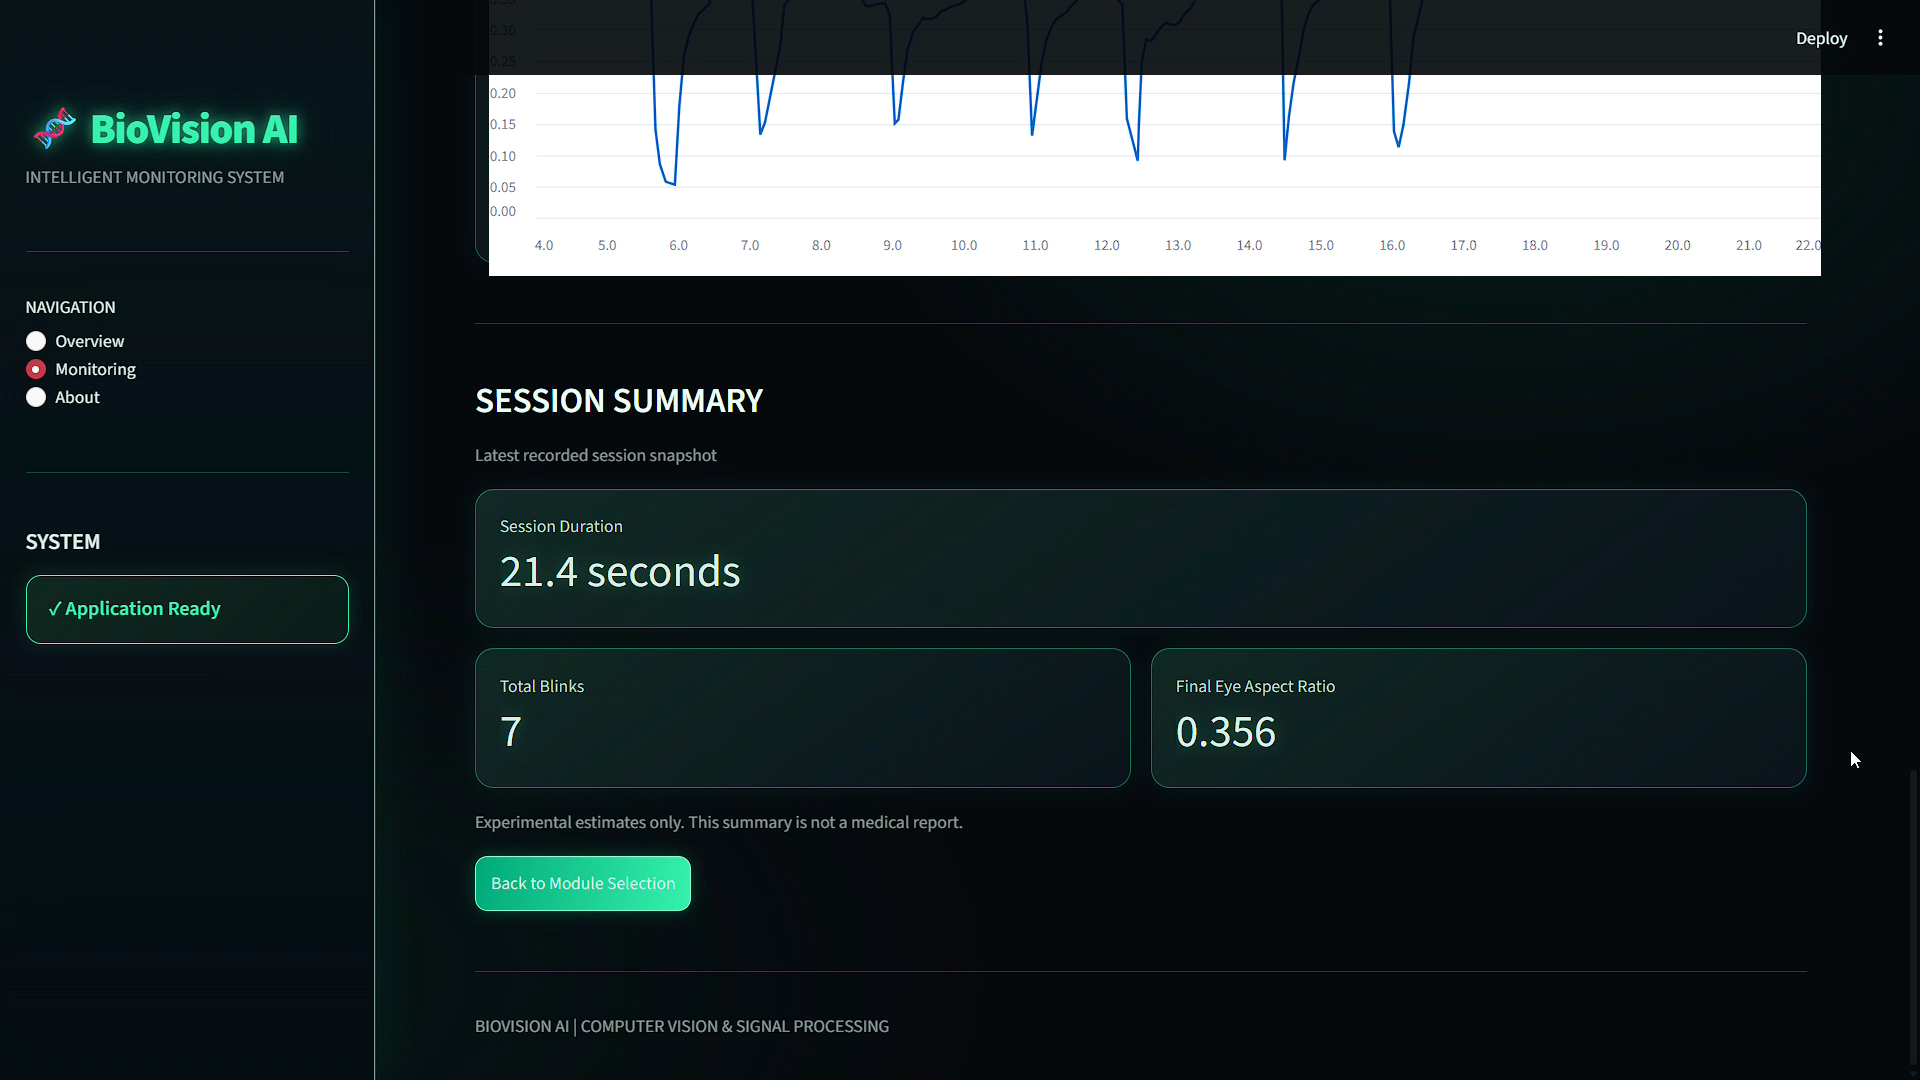
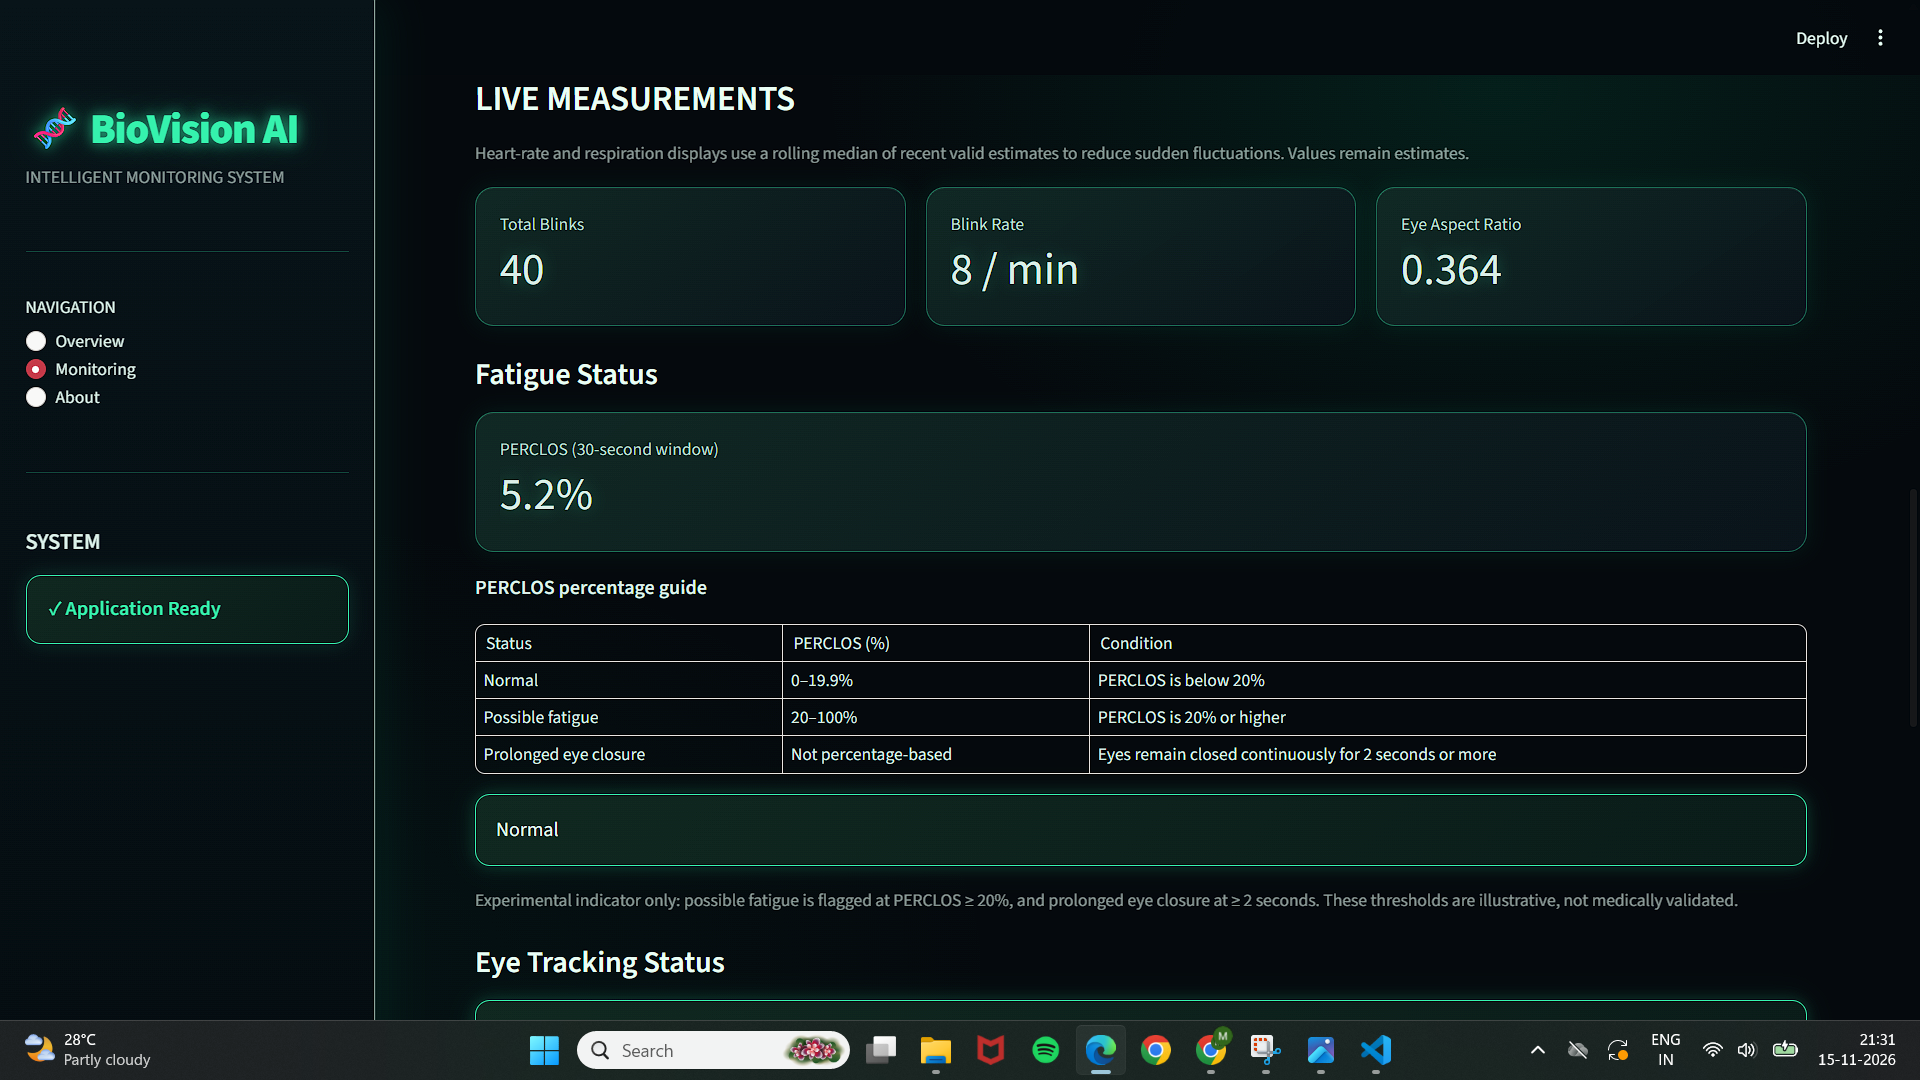
Fix OpenCV dependency for cloud deployment

diff --git a/biovision_live.py b/biovision_live.py
@@ -546,6 +546,10 @@ class BioVisionProcessor(VideoProcessorBase):
         self.closed_start = 0
         self.ear = 0
         self.ear_history = deque(maxlen=300)
+        # Rolling eye-closure history for an experimental PERCLOS indicator.
+        self.eye_state_history = deque()
+        self.perclos = 0.0
+        self.fatigue_status = "Waiting for face detection"
 
         self.heart_rate = None
         self.breathing_rate = None
@@ -726,12 +730,45 @@ class BioVisionProcessor(VideoProcessorBase):
 
                     self.eye_closed = False
 
+                # Keep eye-open/closed samples from the latest 30 seconds.
+                self.eye_state_history.append((now, self.eye_closed))
+                cutoff = now - 30.0
+                while self.eye_state_history and self.eye_state_history[0][0] < cutoff:
+                    self.eye_state_history.popleft()
+
+                if self.eye_state_history:
+                    closed_samples = sum(
+                        1 for _, closed in self.eye_state_history if closed
+                    )
+                    self.perclos = 100.0 * closed_samples / len(self.eye_state_history)
+
+                closure_duration = (
+                    now - self.closed_start if self.eye_closed else 0.0
+                )
+                if self.eye_closed and closure_duration >= 2.0:
+                    self.fatigue_status = "Prolonged eye closure"
+                elif self.perclos >= 20.0:
+                    self.fatigue_status = "Possible fatigue"
+                else:
+                    self.fatigue_status = "Normal"
+            else:
+                self.fatigue_status = "Face not detected"
+
             cv2.putText(
                 image,
                 f"Status: {status}",
                 (20, 45),
                 cv2.FONT_HERSHEY_SIMPLEX,
                 0.7,
+                (0, 255, 180),
+                2
+            )
+            cv2.putText(
+                image,
+                f"Fatigue: {self.fatigue_status}",
+                (20, 180),
+                cv2.FONT_HERSHEY_SIMPLEX,
+                0.55,
                 (0, 255, 180),
                 2
             )
@@ -1152,7 +1189,9 @@ elif page == "Monitoring":
                     "module": active,
                     "duration": round(elapsed, 1),
                     "total_blinks": processor.blink_count,
-                    "ear": round(processor.ear, 3)
+                    "ear": round(processor.ear, 3),
+                    "perclos": round(processor.perclos, 1),
+                    "fatigue_status": processor.fatigue_status
                 }
 
             elif active == "Respiration Rate":
@@ -1195,6 +1234,35 @@ elif page == "Monitoring":
 
                 with c3:
                     st.metric("Eye Aspect Ratio", round(processor.ear, 3))
+
+                st.markdown("#### Fatigue Status")
+                st.metric("PERCLOS (30-second window)", f"{processor.perclos:.1f}%")
+
+                st.markdown("**PERCLOS percentage guide**")
+                fatigue_ranges = pd.DataFrame({
+                    "Status": ["Normal", "Possible fatigue", "Prolonged eye closure"],
+                    "PERCLOS (%)": ["0–19.9%", "20–100%", "Not percentage-based"],
+                    "Condition": [
+                        "PERCLOS is below 20%",
+                        "PERCLOS is 20% or higher",
+                        "Eyes remain closed continuously for 2 seconds or more"
+                    ]
+                })
+                st.table(fatigue_ranges)
+
+                if processor.fatigue_status == "Normal":
+                    st.success("Normal")
+                elif processor.fatigue_status == "Possible fatigue":
+                    st.warning("Possible fatigue")
+                elif processor.fatigue_status == "Prolonged eye closure":
+                    st.error("Prolonged eye closure")
+                else:
+                    st.info("Face not detected — adjust your position.")
+                st.caption(
+                    "Experimental indicator only: possible fatigue is flagged at "
+                    "PERCLOS ≥ 20%, and prolonged eye closure at ≥ 2 seconds. "
+                    "These thresholds are illustrative, not medically validated."
+                )
                 st.markdown("#### Eye Tracking Status")
 
                 if processor.ear > 0:
@@ -1322,6 +1390,8 @@ elif page == "Monitoring":
 
                 c1.metric("Total Blinks", summary["total_blinks"])
                 c2.metric("Final Eye Aspect Ratio", summary["ear"])
+                st.metric("Final Fatigue Status", summary["fatigue_status"])
+                st.metric("Final PERCLOS", f"{summary['perclos']}%")
 
             elif active == "Respiration Rate":
 

diff --git a/README.md b/README.md
@@ -1,10 +1,9 @@
-
 # 🧬 BioVision AI
 ### AI-Powered Contactless Health Monitoring System Using Computer Vision
 
 BioVision AI is an experimental, webcam-based health monitoring application that explores contactless estimation of selected physiological parameters using Computer Vision and Digital Signal Processing techniques.
 
-The system analyzes facial landmarks, upper-body visual signals, and facial colour variations to estimate blink patterns, respiration rate, and heart rate through an interactive Streamlit dashboard.
+The system analyzes facial landmarks, upper-body visual signals, and facial colour variations to estimate blink patterns, respiration rate, and heart rate through an interactive Streamlit dashboard. It also includes an experimental fatigue-status indicator based on eye-closure patterns and PERCLOS estimation.
 
 ---
 
@@ -12,11 +11,11 @@ The system analyzes facial landmarks, upper-body visual signals, and facial colo
 
 BioVision AI consists of three independent monitoring modules:
 
-1. **Blink & Fatigue Dynamics** – Detects eye activity and analyzes blink patterns using facial landmarks and Eye Aspect Ratio (EAR).
+1. **Blink & Fatigue Dynamics** – Detects eye activity and analyzes blink patterns using facial landmarks and Eye Aspect Ratio (EAR). It also estimates PERCLOS and displays fatigue-related status indicators.
 2. **Respiration Rate Estimation** – Estimates breathing rate by analyzing visual signals extracted from the upper-body region.
 3. **Heart Rate Estimation (rPPG)** – Estimates heart rate using facial colour variations captured through a webcam.
 
-The application provides visualized signals, monitoring values, and session summaries through a real-time interactive dashboard.
+The application provides visualized signals, monitoring values, fatigue-status indicators, and session summaries through a real-time interactive dashboard.
 
 ---
 
@@ -29,7 +28,20 @@ The application provides visualized signals, monitoring values, and session summ
 - Eye closure and blink detection.
 - Blink counting and blink-rate monitoring.
 - Live EAR signal visualization.
-- Session summary displaying blink activity.
+- PERCLOS estimation using a rolling 30-second sample window.
+- Experimental fatigue-status classification.
+- Live fatigue-status display.
+- Session summary displaying blink activity and fatigue-related information.
+
+**Fatigue Status Categories**
+
+| Status | PERCLOS Percentage / Condition |
+|---|---|
+| Normal | Below 20% |
+| Possible fatigue | 20% or higher |
+| Prolonged eye closure | Continuous eye closure for 2 seconds or more |
+
+*Note: Prolonged eye closure is determined by duration rather than PERCLOS percentage. The thresholds are illustrative project settings and are not clinically validated.*
 
 ### 🫁 2. Respiration Rate Estimation
 
@@ -54,6 +66,7 @@ The application provides visualized signals, monitoring values, and session summ
 - Webcam-based real-time analysis.
 - Dynamic measurement displays.
 - Signal graphs and session summaries.
+- Live fatigue-status indicator and PERCLOS percentage guide.
 
 ---
 
@@ -63,15 +76,19 @@ The application provides visualized signals, monitoring values, and session summ
 
 ![BioVision AI Dashboard](screenshots/overview.png)
 
-### 2. Blink & Fatigue Dynamics
+### 2. General Monitoring Dashboard
 
-![Blink Monitoring](screenshots/blink-monitoring.png)
+![General Monitoring Dashboard](screenshots/monitoring.png)
 
-### 3. Respiration Rate Monitoring
+### 3. Blink Monitoring & Fatigue Status
+
+![Blink Monitoring and Fatigue Status](screenshots/blink-monitoring.png)
+
+### 4. Respiration Rate Monitoring
 
 ![Respiration Monitoring](screenshots/respiration-monitoring.png)
 
-### 4. Heart Rate Monitoring (rPPG)
+### 5. Heart Rate Monitoring (rPPG)
 
 **Live Camera Monitoring**
 
@@ -107,6 +124,8 @@ The application provides visualized signals, monitoring values, and session summ
 - Pose Estimation
 - Eye Aspect Ratio (EAR)
 - Blink Detection
+- PERCLOS Estimation
+- Fatigue Status Classification
 - Remote Photoplethysmography (rPPG)
 - Region of Interest (ROI) Extraction
 - Green-Channel Signal Analysis
@@ -125,8 +144,9 @@ The application follows this general processing workflow:
 3. **Region Extraction:** Relevant facial and upper-body regions are selected.
 4. **Signal Extraction:** Visual information is converted into numerical signals.
 5. **Signal Processing:** Extracted signals are processed using NumPy and SciPy.
-6. **Parameter Estimation:** Experimental blink, respiration, and heart-rate values are calculated.
-7. **Visualization:** Results are displayed through the Streamlit dashboard.
+6. **Parameter Estimation:** Experimental blink, PERCLOS, respiration, and heart-rate values are calculated.
+7. **Status Classification:** Eye-closure patterns are used to generate experimental fatigue-status indicators.
+8. **Visualization:** Results are displayed through the Streamlit dashboard.
 
 ---
 
@@ -141,7 +161,8 @@ BioVision-AI/
 │
 ├── screenshots/
 │   ├── overview.png
-│   ├── blink-monitoring.png
+│   ├── blink_monitoring.png
+│   ├── monitoring.png
 │   ├── respiration-monitoring.png
 │   ├── heart-monitoring-1.png
 │   └── heart-monitoring-2.png
@@ -188,13 +209,13 @@ python -m venv venv
 
 ### Step 4: Activate the Virtual Environment
 
-For Windows:
+**For Windows:**
 
 ```bash
 venv\Scripts\activate
 ```
 
-For Linux/macOS:
+**For Linux/macOS:**
 
 ```bash
 source venv/bin/activate
@@ -229,6 +250,8 @@ Potential educational and research applications include:
 
 - Exploring contactless computer vision techniques.
 - Understanding facial landmark-based blink detection.
+- Studying experimental eye-closure and fatigue indicators.
+- Learning PERCLOS-based estimation concepts.
 - Studying visual signal extraction.
 - Exploring remote photoplethysmography.
 - Learning real-time video processing and signal visualization.
@@ -240,7 +263,9 @@ Potential educational and research applications include:
 BioVision AI is an experimental educational project developed to explore computer vision and signal processing techniques.
 
 - Heart-rate and respiration-rate outputs are algorithmic estimates and may be affected by lighting, movement, camera quality, and environmental conditions.
-- Blink patterns alone cannot reliably determine fatigue.
+- PERCLOS is approximated using the proportion of eye-closed samples in a rolling 30-second window. Its accuracy can be affected by variations in frame sampling and face detection.
+- The fatigue-status thresholds are illustrative and have not been clinically validated.
+- Blink patterns and eye-closure measurements alone cannot reliably determine fatigue.
 - The system has not been clinically validated.
 - The displayed values should not be considered medical measurements.
 - The application must not be used for medical diagnosis, treatment, or healthcare decisions.
@@ -252,6 +277,7 @@ BioVision AI is an experimental educational project developed to explore compute
 ## 🔮 Future Enhancements
 
 - Improve signal extraction and noise reduction.
+- Improve PERCLOS calculation using actual elapsed eye-closure time.
 - Evaluate estimation accuracy against suitable reference measurements.
 - Improve performance under different lighting conditions.
 - Enhance real-time signal visualization.
